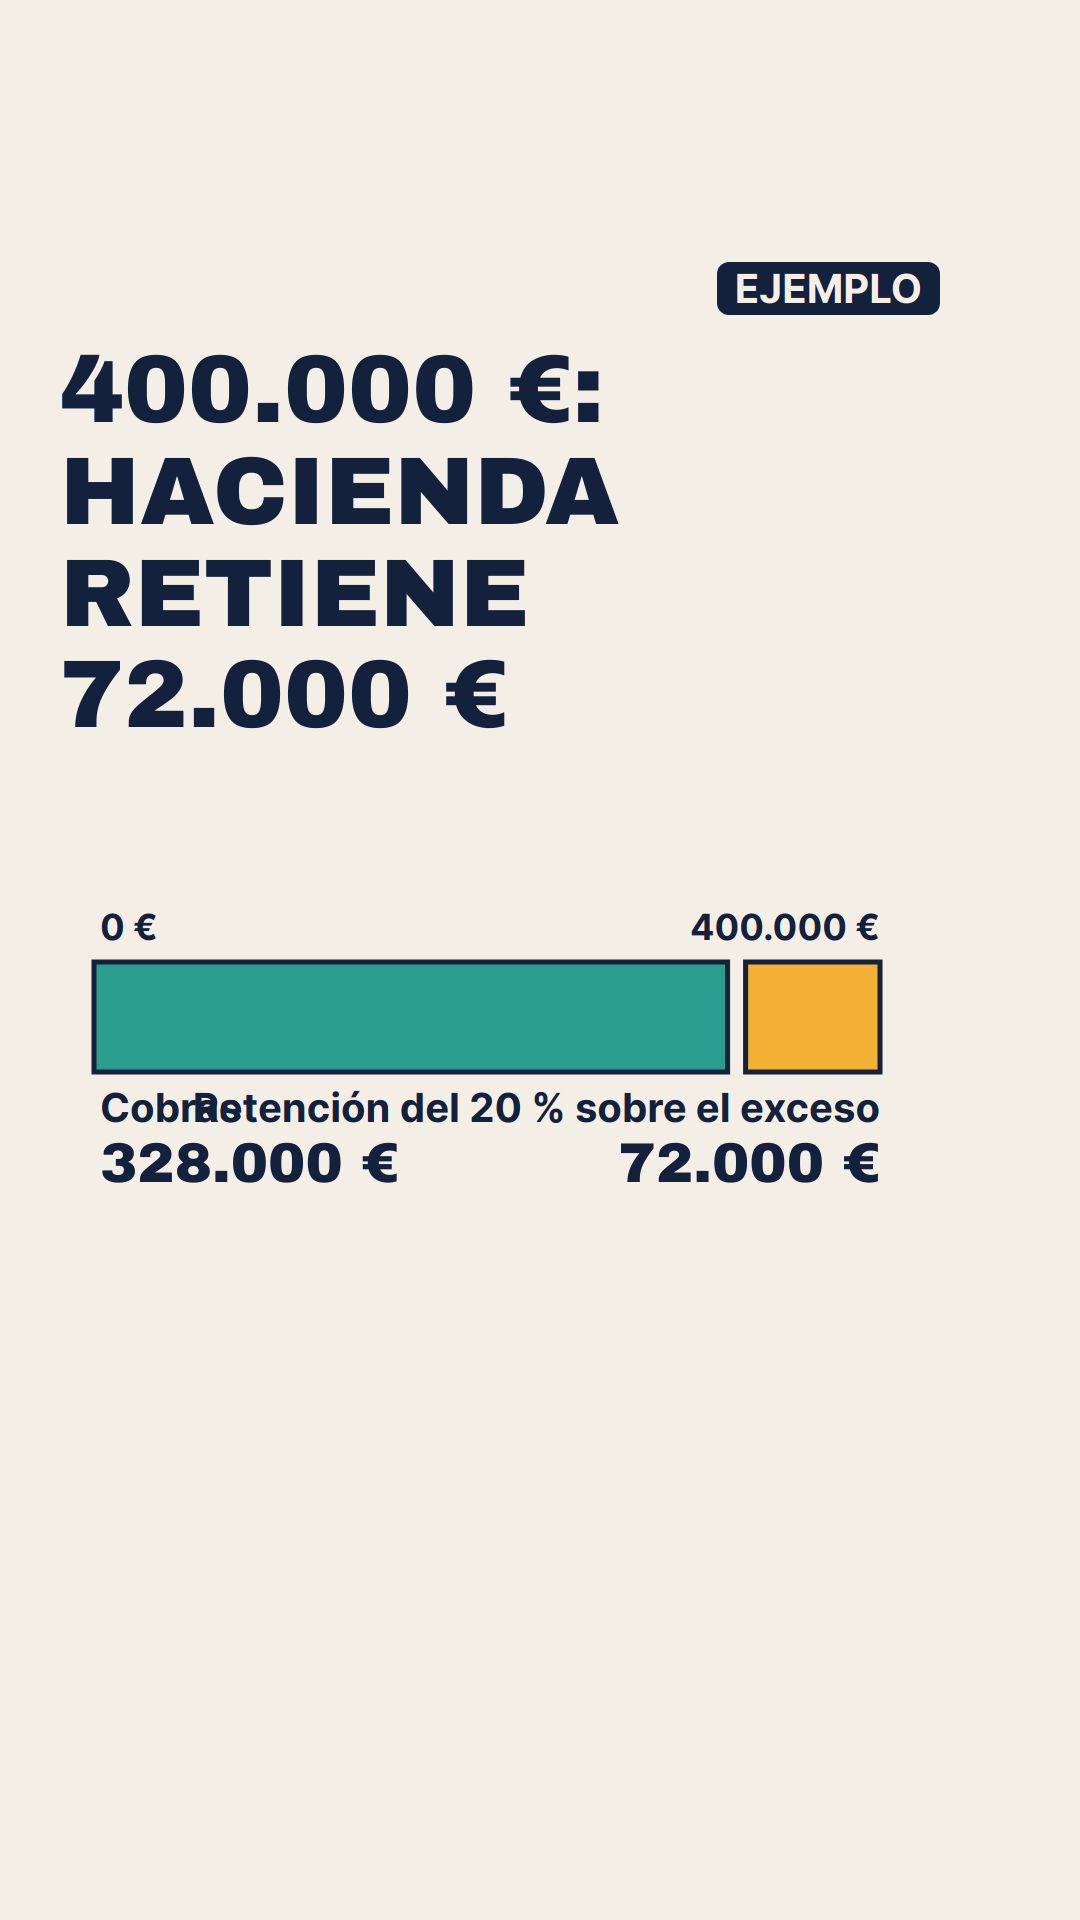
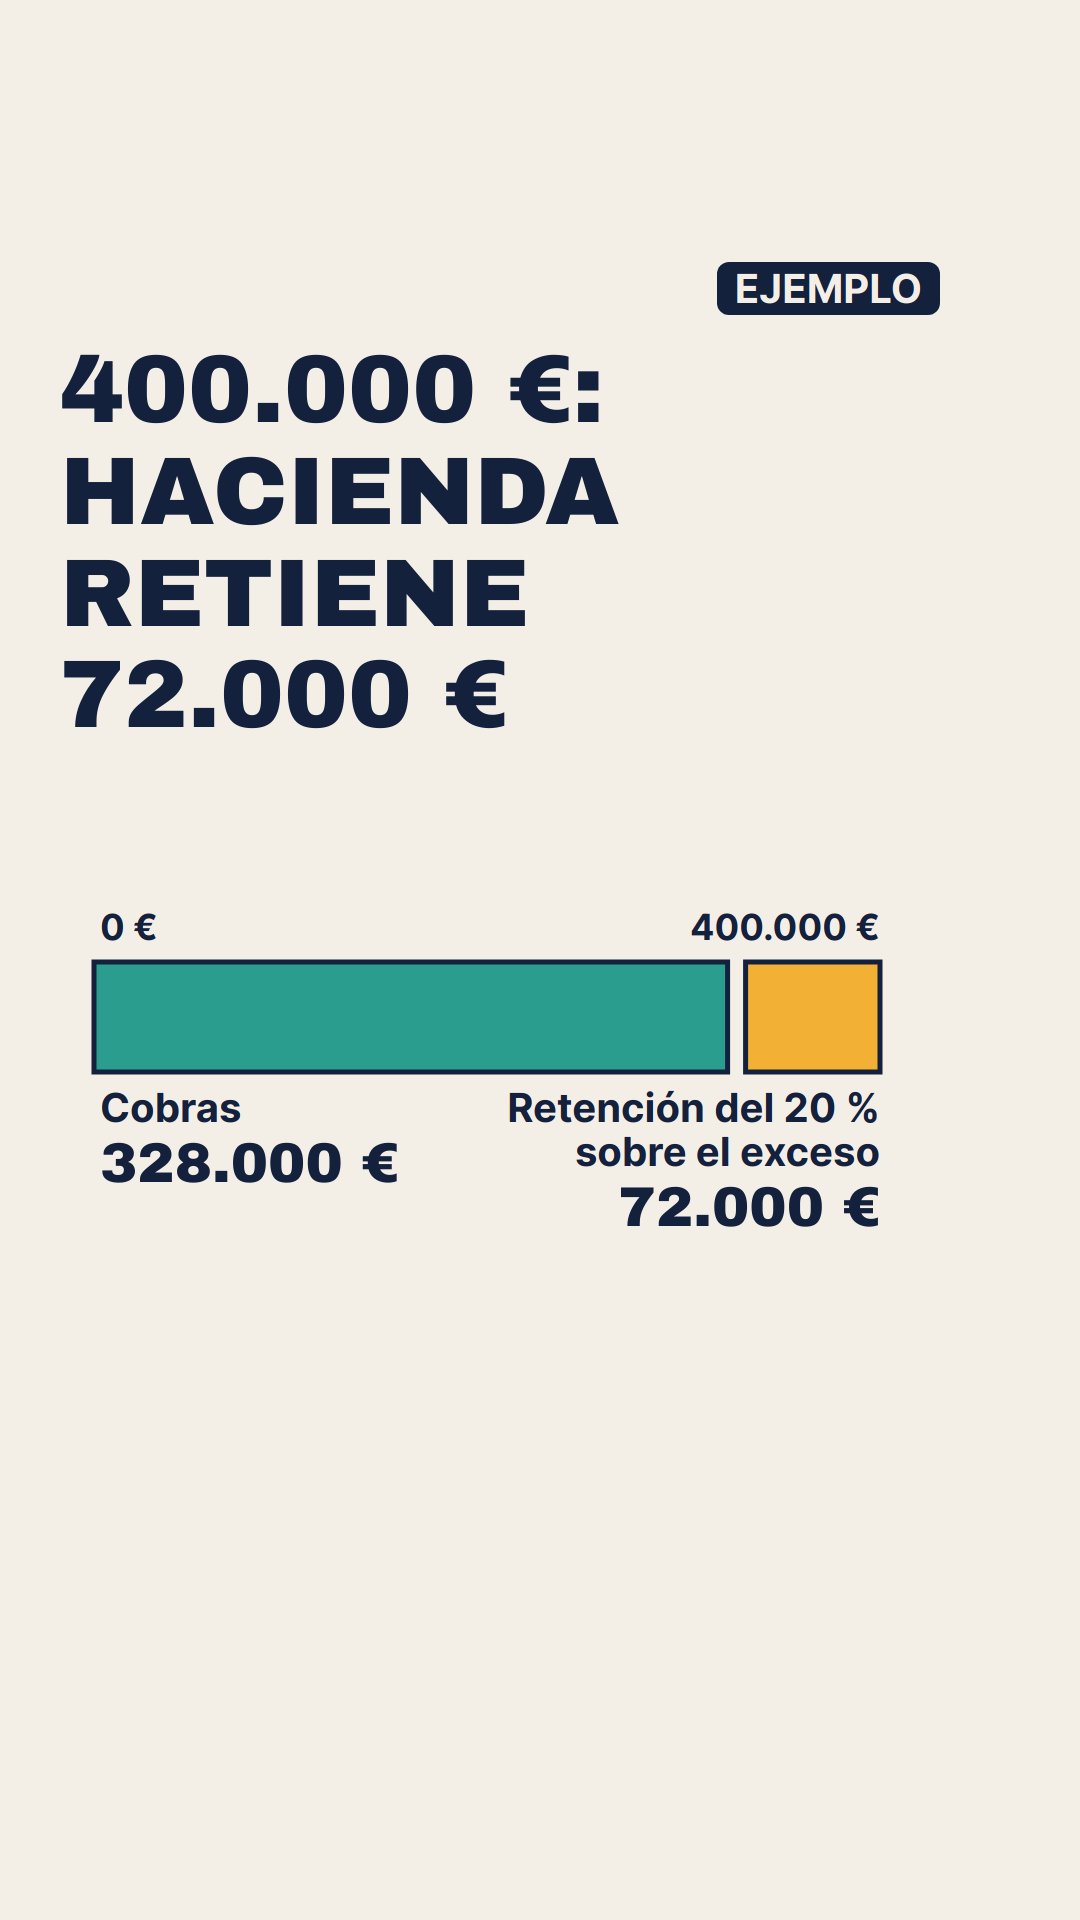
083 en cola 29-11 19:00; informe producción

Changed region(s): [[0.1833, 0.5625, 0.825, 0.6562]]

diff --git a/revisiones/videos/083-gordo-hacienda-v1.md b/revisiones/videos/083-gordo-hacienda-v1.md
@@ -1,0 +1,22 @@
+# Revisión de vídeo · 083-gordo-hacienda · vuelta 1
+**Veredicto:** CAMBIOS  →  vuelve a: generador-video
+**Técnica:** 1080×1920 · 30 fps · H.264+AAC · 34,8 s · -14,1 LUFS · pico -1,5 dBTP · voz ElevenLabs real (no provisional) · sin cortes de audio
+**Test de formato Reel/TikTok:** 8/10 (falla: primer cambio visual antes de 1,5 s / gancho con impacto en 0–3 s)
+
+## Obligatorio (bloqueante)
+Ninguno. `comprobar.mjs`: OK (literalidad, lectura, borde x>960, quietud, franja de subtítulos). EJEMPLO visible desde el fotograma 0 en todo el vídeo. Cifras y operaciones coinciden con el guion (400.000 / 40.000 / 360.000 / 72.000 / 328.000).
+
+## Formato Reel/TikTok
+1. [00:00–00:03,5] Gancho estático: solo la barra "400.000 €" y el titular, sin ningún cambio visual hasta ~3,5 s. El tajo que revela "RETENCIÓN: 72.000 €" llega con la voz de "retiene", no a 1 s como pide el guion (bloque 1). Con sonido apagado no hay nada que pare el dedo. → Adelantar el tajo y el rótulo "RETENCIÓN: 72.000 €" a ≈ 1,0 s (antes de que la voz lo diga), con el rótulo en tinta pleno desde la entrada (a 3,5 s aparece en gris de fundido). Alternativa: anclar el titular directamente a "400.000 €: HACIENDA RETIENE 72.000 €".
+2. [00:00–00:03] El titular del gancho es "400.000 € EN UN DÉCIMO"; el guion pide "400.000 €" → "RETENCIÓN: 72.000 €". Es razonable, pero queda sin la cifra de la retención en los primeros 3 s. Se corrige con el punto 1.
+
+## Recomendado
+1. [00:05–00:34] La zona inferior (y > 1500) queda vacía en todo el vídeo salvo el cierre; el contenido compacto arriba es legible, sin necesidad de moverlo.
+2. [00:34] Cola tras la voz ≈ 2,4 s (última palabra a 32,5 s): correcta.
+3. Pronunciación no verificable sin escucha: `voz.txt` revisado, sin guías anómalas.
+
+## Lo que funciona bien
+- Las dos barras comparten eje y proporciones (10/90, 82/18): gráfico honesto, sin ejes truncados.
+- Operaciones en pantalla literales y legibles; fuente en 36 px dentro de zona segura.
+- Cierre A/B con pregunta y "Síguenos"; subtítulos sincronizados y sin huecos > 3 s (sin tramos quietos).
+- Sin partidos, candidatos ni opinión: informativo puro.

diff --git a/memoria/generador-video.md b/memoria/generador-video.md
@@ -95,3 +95,4 @@
 - [componentes] 082 (flash 35,4 s): `Puente.tsx` (REGISTRO_PUENTE: calPuente calendario dic-2026 filas 2/5 con 6 DOM/flecha/banderas/mar 8, mapaPuente 3 estados + Ceuta/Melilla + etiquetas, barraDias). Exporté CCAA y centro de Espera.tsx. Mapa continuo entre escenas: en:-1 y festEn negativo. Calendario cw 124 rebasa 960 (usa 118). Guion en borradores: voz.txt = línea 42; copia temporal a aprobados/ para comprobar. (082, 2026-11-27)
 - [componentes] 081 (flash 33,1 s): `Devolucion.tsx` (REGISTRO_081: calDev rejilla 14, plazoDev, reembDev, envioDev con interruptor tú/tienda, excluidosDev 3 iconos con aspa debajo). Recorte de caja de Commons (HireAHelper CC BY 2.0) con recortar.mjs tras `npm install --onnxruntime-node-install-cuda=skip` en videos/recorte. Gancho 'ECHARTE ATRÁS' a 120 px rebasa 960: NB para 3 líneas a 104. Cierre: yFrase por defecto 520 (330 pisa el logo grande). Guion en borradores: copia temporal a aprobados/ solo para comprobar.mjs y bórrala. (081, 2026-11-27)
 - [componentes] 084 (flash 31,8 s): `Multa.tsx` (REGISTRO_084: casillasM 20 días, docM, sobreM). `abSerie` trunca textos largos: usa rotulos. Etiqueta de barra 'hasta 240 € (+20 %)' cruza 960 a cx 740: centros [270,620]. voz.txt = línea 43 del guion. (084, 2026-11-28)
+- [componentes] 083 (flash 34,8 s): `Gordo.tsx` (REGISTRO_083: barraGordo partida con etiquetas '|' en 2 líneas, flujoGordo, compartidoGordo, ejemploG con y). Sello que cae a y>1000 dispara BORDE: y 1035/x 480 sin aviso. `cierre` pisa el EJEMPLO fijo: ejemploG y 350. Voz generada con voz.mjs antes de escenas (87 pal = 32,4 s). (083, 2026-11-28)

diff --git a/publicado/083-gordo-hacienda.md b/publicado/083-gordo-hacienda.md
@@ -1,0 +1,14 @@
+# 083 · Premio de 400.000 € en un décimo: qué retiene Hacienda
+
+## Texto del post
+Imagina un premio de 400.000 euros en un décimo: Hacienda retiene 72.000.
+
+Es un ejemplo con un solo titular, contribuyente del IRPF y un décimo entero. Los premios de loterías y apuestas de Loterías y Apuestas del Estado tributan por un gravamen especial (disposición adicional 33.ª de la Ley 35/2006 del IRPF): están exentos los premios de hasta 40.000 euros de importe íntegro, y sobre el exceso se aplica un 20 %. Se calcula por cada décimo, fracción o cupón. Con 400.000 euros: 400.000 − 40.000 = 360.000; 360.000 × 20 % = 72.000; te quedan 328.000 (cálculo propio con la norma). La retención la practica el organismo que paga el premio (SELAE, según la Agencia Tributaria) y, con ella, no hay que presentar otra autoliquidación de este gravamen. Los premios no se integran en la base imponible de tu renta. Si el décimo es de varias personas, los 40.000 euros exentos se reparten según la cuota de cada una. Los premios de hasta 40.000 euros por décimo no tienen gravamen. Las sociedades y los no residentes tienen su propio régimen.
+
+¿Retener 72.000 euros de 400.000 te parece mucho o poco?
+
+Fuentes: BOE-A-2006-20764 (Ley 35/2006, DA 33.ª) · Agencia Tributaria, nota de los premios del sorteo de Navidad (consultada el 2026-11-28). Música: "Investigations", Kevin MacLeod (incompetech.com) · CC BY 4.0.
+
+#loteria #Hacienda #IRPF #impuestos #LoteriaDeNavidad #España
+
+👉 Síguenos para estar informado

diff --git a/estado/programado-hoy.md b/estado/programado-hoy.md
@@ -65,3 +65,4 @@ Para vetar una pieza, di "no" o "para" en el chat: se desprograma.
 | 081-devolucion-14-dias (v1) | Reel 33 s | Instagram + TikTok () vía cola | 2026-11-28 12:00 | revisiones/guiones/081-…-v1.md (literales aplicados) · revisiones/videos/081-…-v1.md (9/10). Recomprobar BOE arts. 102-108; sin tono electoral (reflexión) |
 | 082-puente-7-diciembre (v3) | Reel 35 s | Instagram + TikTok () vía cola | 2026-11-28 19:00 | revisiones/guiones/082-…-v1.md · revisiones/videos/082-…-v3.md (9/10). Recomprobar BOE-A-2025-21667 |
 | 084-multa-dgt-pronto-pago (v1) | Reel 32 s | Instagram + TikTok () vía cola | 2026-11-29 12:00 | revisiones/guiones/084-…-v1.md (cambios aplicados) · revisiones/videos/084-…-v1.md (9/10). Recomprobar DGT/LGT art. 28 |
+| 083-gordo-hacienda (v2) | Reel 35 s | Instagram + TikTok () vía cola | 2026-11-29 19:00 | revisiones/guiones/083-…-v1.md · revisiones/videos/083-…-v2.md (9/10). Recomprobar Ley 35/2006 DA 33ª; importe Gordo 2026 no verificado (ejemplo rotulado) |

diff --git a/estado/pipeline.md b/estado/pipeline.md
@@ -177,3 +177,5 @@ Lo mantiene el coordinador. Una fila por pieza.
 | 083b | am20261127-1730-abascal-vivienda | 🔴 Actualidad · Al minuto | Al minuto | publicando (Al minuto horario) | - | - | 2026-11-27 18:00 | sin revisores |
 **2026-11-28 (rutina claude.ai):** sin red (curl 000). 28-11 cubierto (081, 082); 29-11 (12:00, 19:00) para produccion.yml (candidato: lotería, propuestas 27-11 tema 3; nada electoral el día de votación). Próximo número libre: 083. Informe en estado/informe-produccion-2026-11-28.md.
 | 084 | multa-dgt-pronto-pago | ⚙ Cómo funciona · Bolsillo | Flash | programado | 1 | 1 | 2026-11-29 12:00 (cola) | v1 APROBADO 9/10 |
+| 083 | gordo-hacienda | 💡 Curiosidad · Bolsillo | Flash | programado | 1 | 2 | 2026-11-29 19:00 (cola) | v2 APROBADO 9/10 |
+**2026-11-28 (produccion.yml):** 29-11 cubierto (084 12:00, 083 19:00). Próximo número libre: 085. Informe en estado/informe-produccion-2026-11-28-nube.md.

diff --git a/revisiones/videos/083-gordo-hacienda-v2.md b/revisiones/videos/083-gordo-hacienda-v2.md
@@ -1,0 +1,12 @@
+# Revisión de vídeo · 083-gordo-hacienda · vuelta 2
+**Veredicto:** APROBADO
+**Técnica:** 1080×1920 · 30 fps · H.264+AAC · 34,8 s · -14,1 LUFS · pico -1,5 dBFS · sin cambios respecto a v1.
+**Test de formato Reel/TikTok:** 9/10
+
+## Verificación del cambio pedido en v1
+- Gancho: el rótulo "RETENCIÓN: 72.000 €" entra a ≈1,0 s (fundido) y está en tinta plena con el tajo de la barra (verde 328.000 / ámbar 72.000) a ≈1,5 s. Antes no había cambio hasta ~3,5 s. Primer cambio visual dentro de 1,5 s: corregido.
+- Regresiones: ninguna. Titular, EJEMPLO visible, cifras (400.000 / 328.000 / 72.000), cierre y zonas seguras iguales a v1; control-1 coincide.
+
+## Recomendado
+1. A 1,0 s el rótulo aún está en gris de fundido; menor, no bloquea.
+2. Zona inferior (y > 1500) vacía: aceptado en v1.

diff --git a/memoria/coordinador.md b/memoria/coordinador.md
@@ -84,3 +84,4 @@
 - 2026-11-27 produccion.yml: 2 piezas ~55 min; 082 (mapa con 9 etiquetas) costó 3 vueltas de vídeo: pedir desde el encargo etiquetas/contadores completos y copiar el guion a aprobados/ antes de comprobar.mjs; el revisor-guion puso literales claros y los aplicó el guionista por SendMessage.
 - 2026-11-27 (2.ª pasada nube): hoy y mañana ya cubiertos; comprobar cola + programado-hoy primero evita todo el flujo.
 - [nube, 2026-11-28] Rutina claude.ai: red igual (curl 000). Informe y salida en ~3 min, sin subagentes. Huecos del 29-11 para produccion.yml.
+- 2026-11-28 produccion.yml: 2 piezas en ~1 h; pedir desde el encargo que el gancho muestre el dato clave en ≤1 s (083 v1 CAMBIOS por gancho estático).

diff --git a/estado/informe-produccion-2026-11-28-nube.md b/estado/informe-produccion-2026-11-28-nube.md
@@ -1,0 +1,2 @@
+# Informe producción 2026-11-28 (nube)
+28-11 ya cubierto (081 12:00, 082 19:00). En cola para 29-11: 084-multa-dgt-pronto-pago v1 a las 12:00 y 083-gordo-hacienda v2 a las 19:00 (ambos guion APROBADO, vídeo 9/10; nada electoral). Nada a medias. 083: importe del Gordo 2026 no verificado, va como ejemplo rotulado. Próximo número libre: 085.
